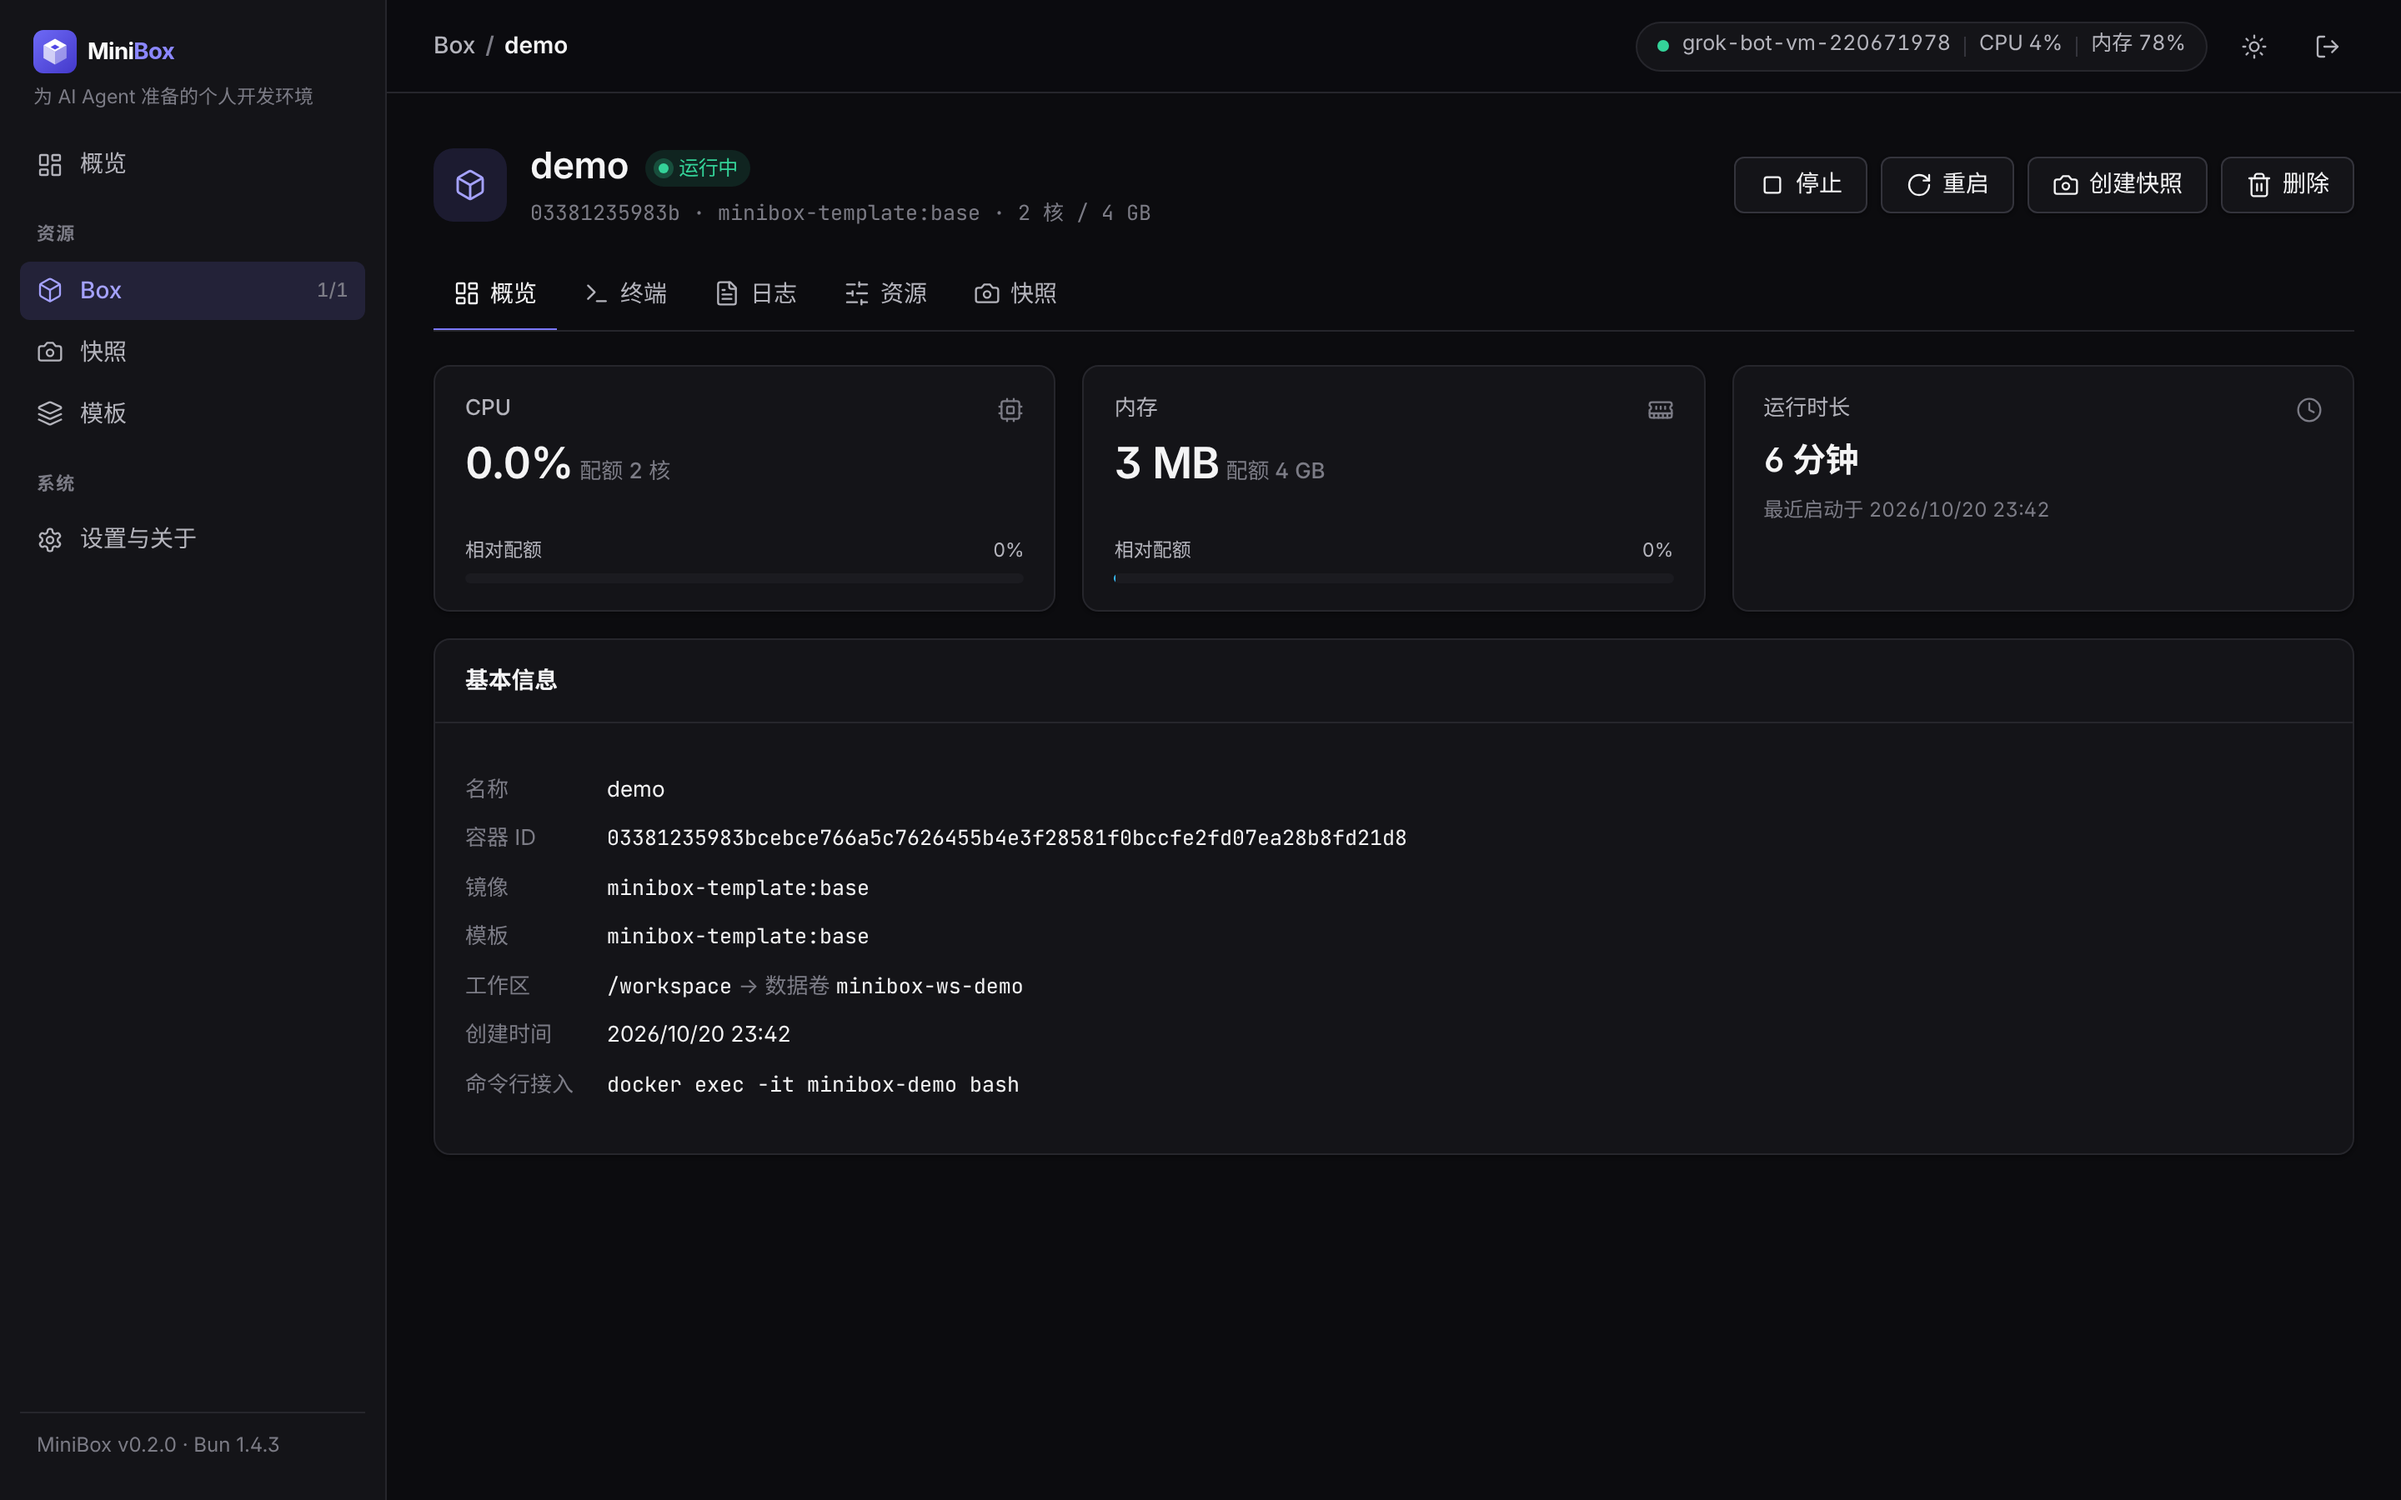
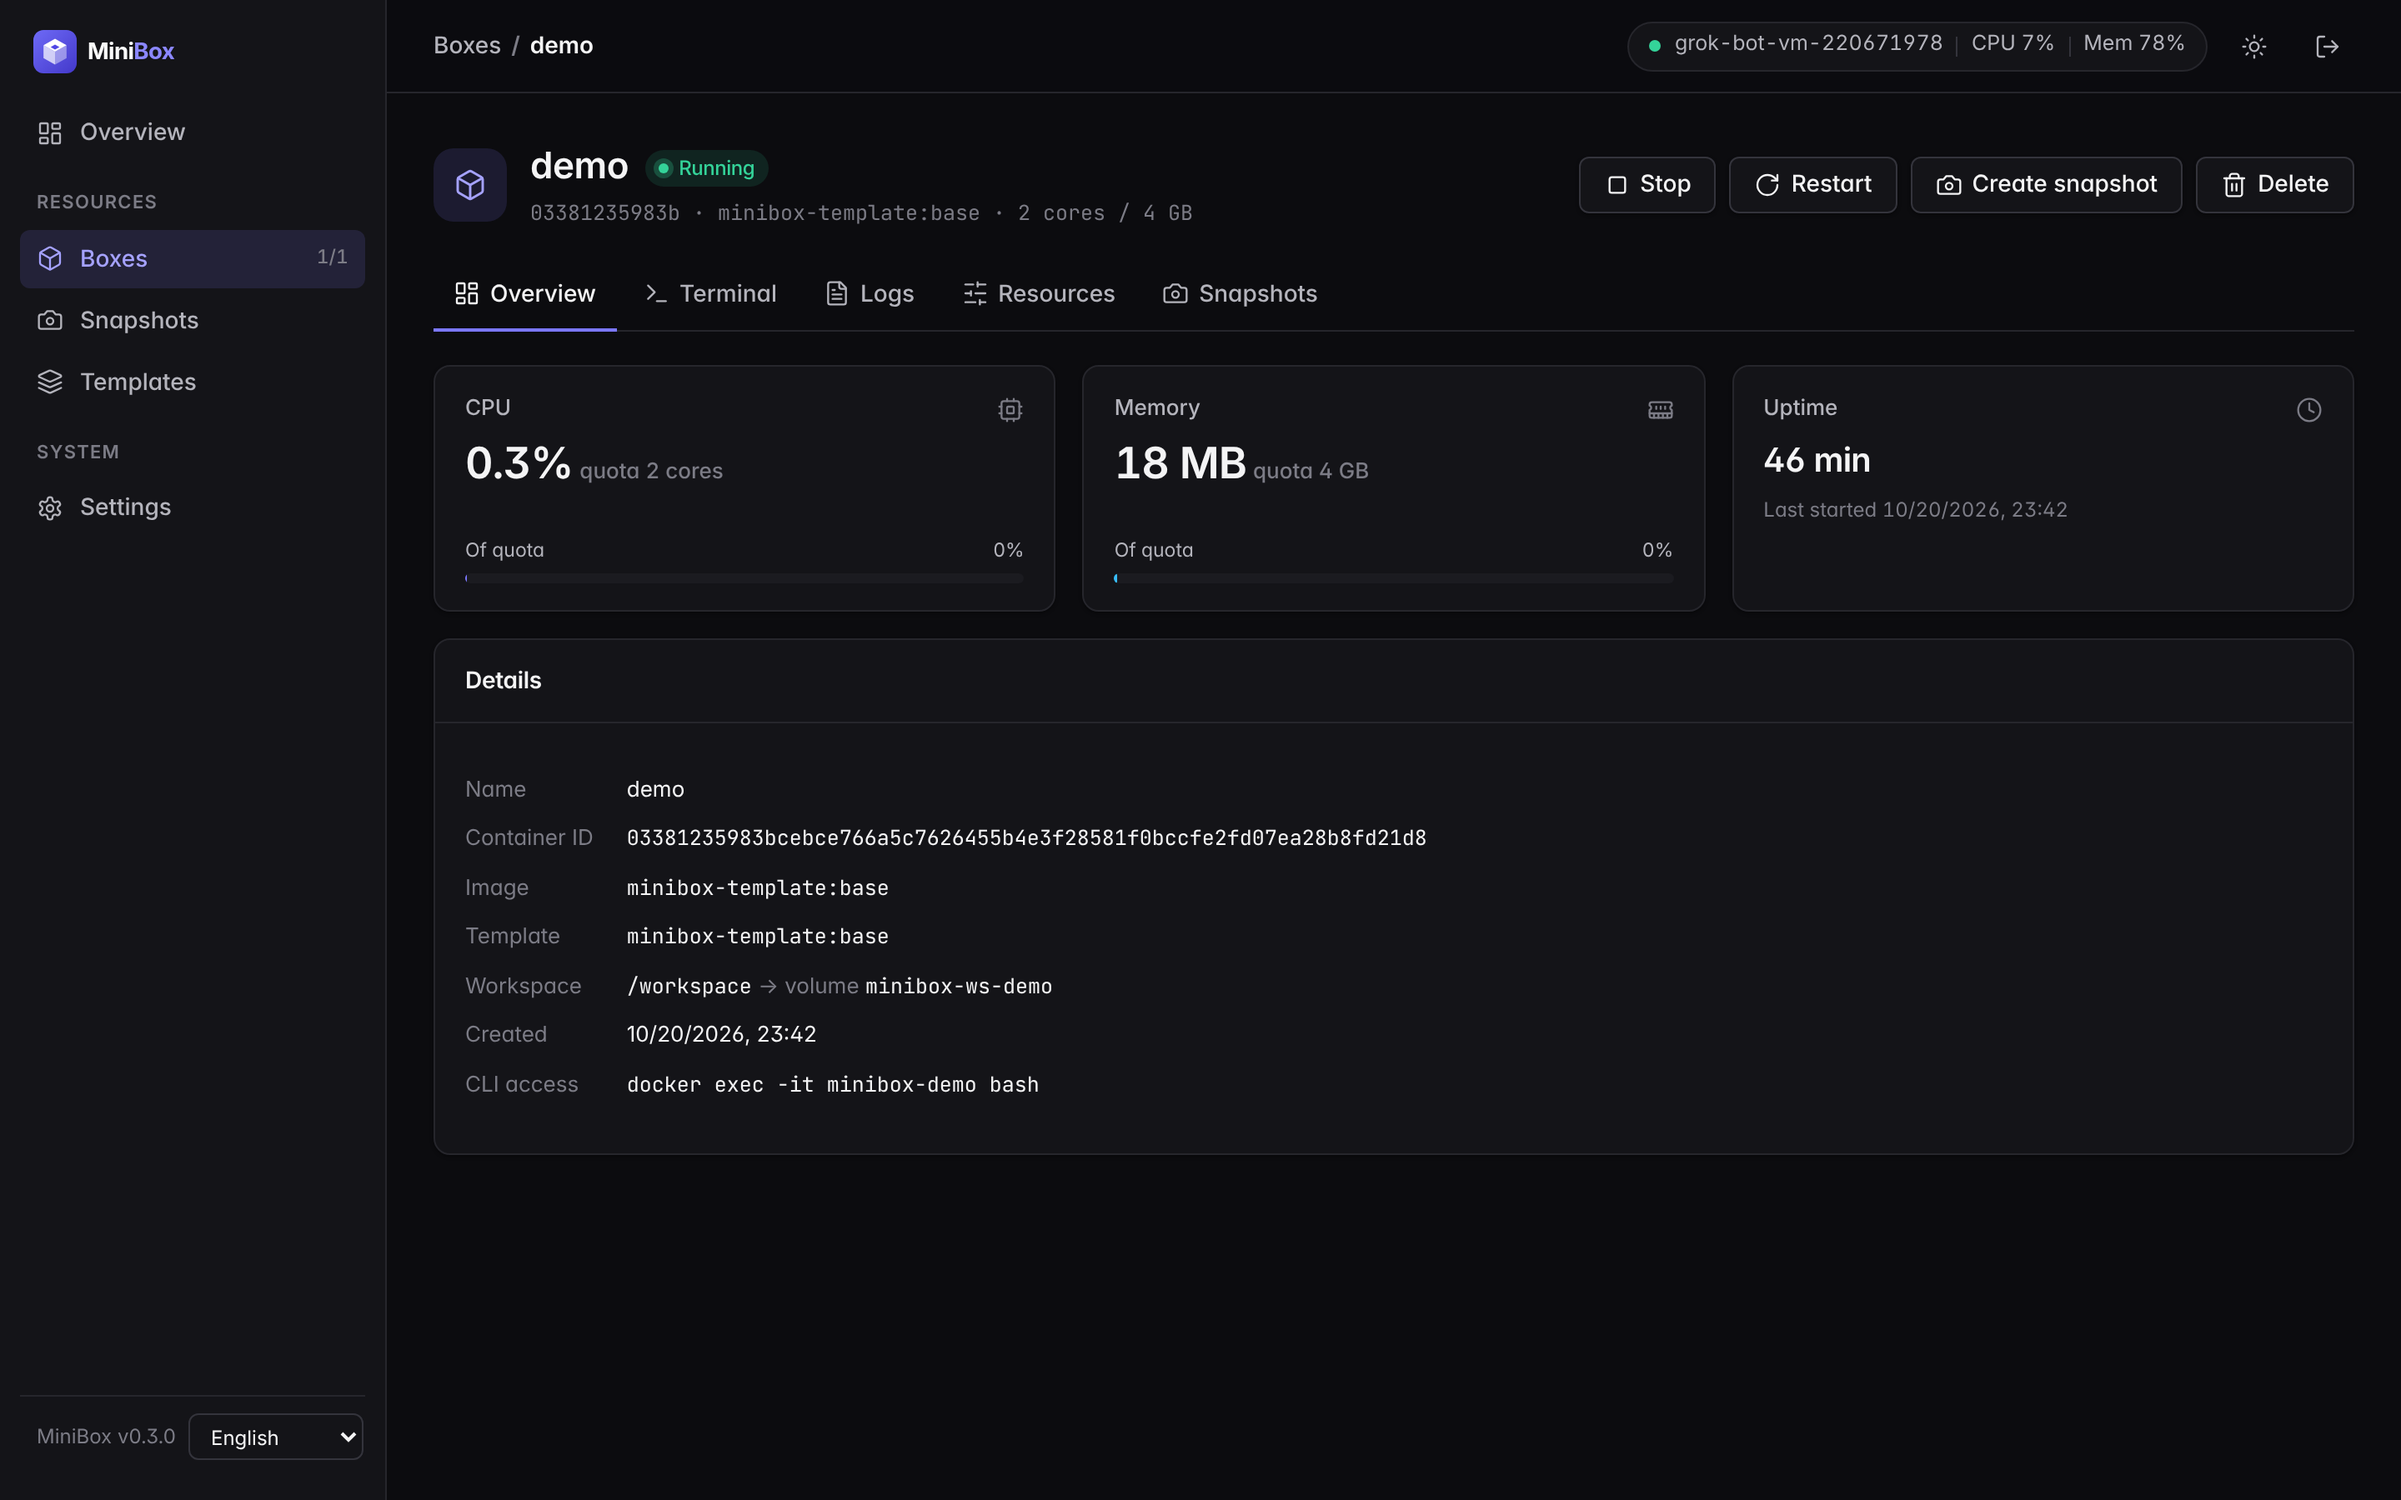
docs: retake screenshots with the English UI; document language switch

diff --git a/CHANGELOG.md b/CHANGELOG.md
@@ -8,11 +8,18 @@
 - Docker 镜像：基于官方 `oven/bun`，支持 `linux/amd64` / `linux/arm64`，包含 OCI 标签与健康检查；发布到 `ghcr.io/arnochenfx/minibox`。
 - 发布工作流（`.github/workflows/release.yml`）：推送 `vX.Y.Z` tag 后自动校验版本、运行检查与测试、构建并推送多架构镜像（`X.Y.Z` / `X.Y` / `latest`），并创建 GitHub Release。
 - 环境变量 `MINIBOX_VERSION`：覆盖显示的版本号。
+- 界面多语言：英文 / 简体中文，可在侧边栏底部、登录页和设置页切换；默认跟随浏览器语言，选择保存在 localStorage。服务端错误返回英文消息及 `key` / `params`，由前端翻译。
 
 ### 变更
 - 版本号在运行时解析：`MINIBOX_VERSION` → `git describe --tags` → `package.json`，不再写死。
 - 侧边栏左下角显示当前版本（`MiniBox vX.Y.Z`）；导航「设置与关于」更名为「设置」。
 - 设置页的关于卡片不再显示 Bun 版本。
+
+### 修复
+- Box 详情页标签栏右侧多出的竖向滚动条（标签负外边距导致容器溢出 1px）。
+
+### 文档
+- README 截图更新为英文界面（v0.3.0）。
 
 ### 移除
 - 侧边栏标语；设置页的「安全须知」卡片（相关说明保留在 README 中）。

diff --git a/README.md b/README.md
@@ -43,6 +43,7 @@ MiniBox lets you spin up isolated **boxes** — long-running Docker containers w
 | Web terminal | Interactive bash over WebSocket with xterm.js, auto-resizes with the window |
 | Logs | Main-process output with selectable line count and auto-refresh |
 | Access control | Single access key via HttpOnly cookie or `Authorization: Bearer`; login rate limiting per IP |
+| Languages | English and Simplified Chinese; switch from the sidebar footer, the login page or Settings. Defaults to the browser language and is remembered per browser |
 | UI | Light / dark theme (follows the system, manual toggle), responsive layout, empty states, skeleton loaders, toasts, confirmation for destructive actions |
 
 ## Screenshots
